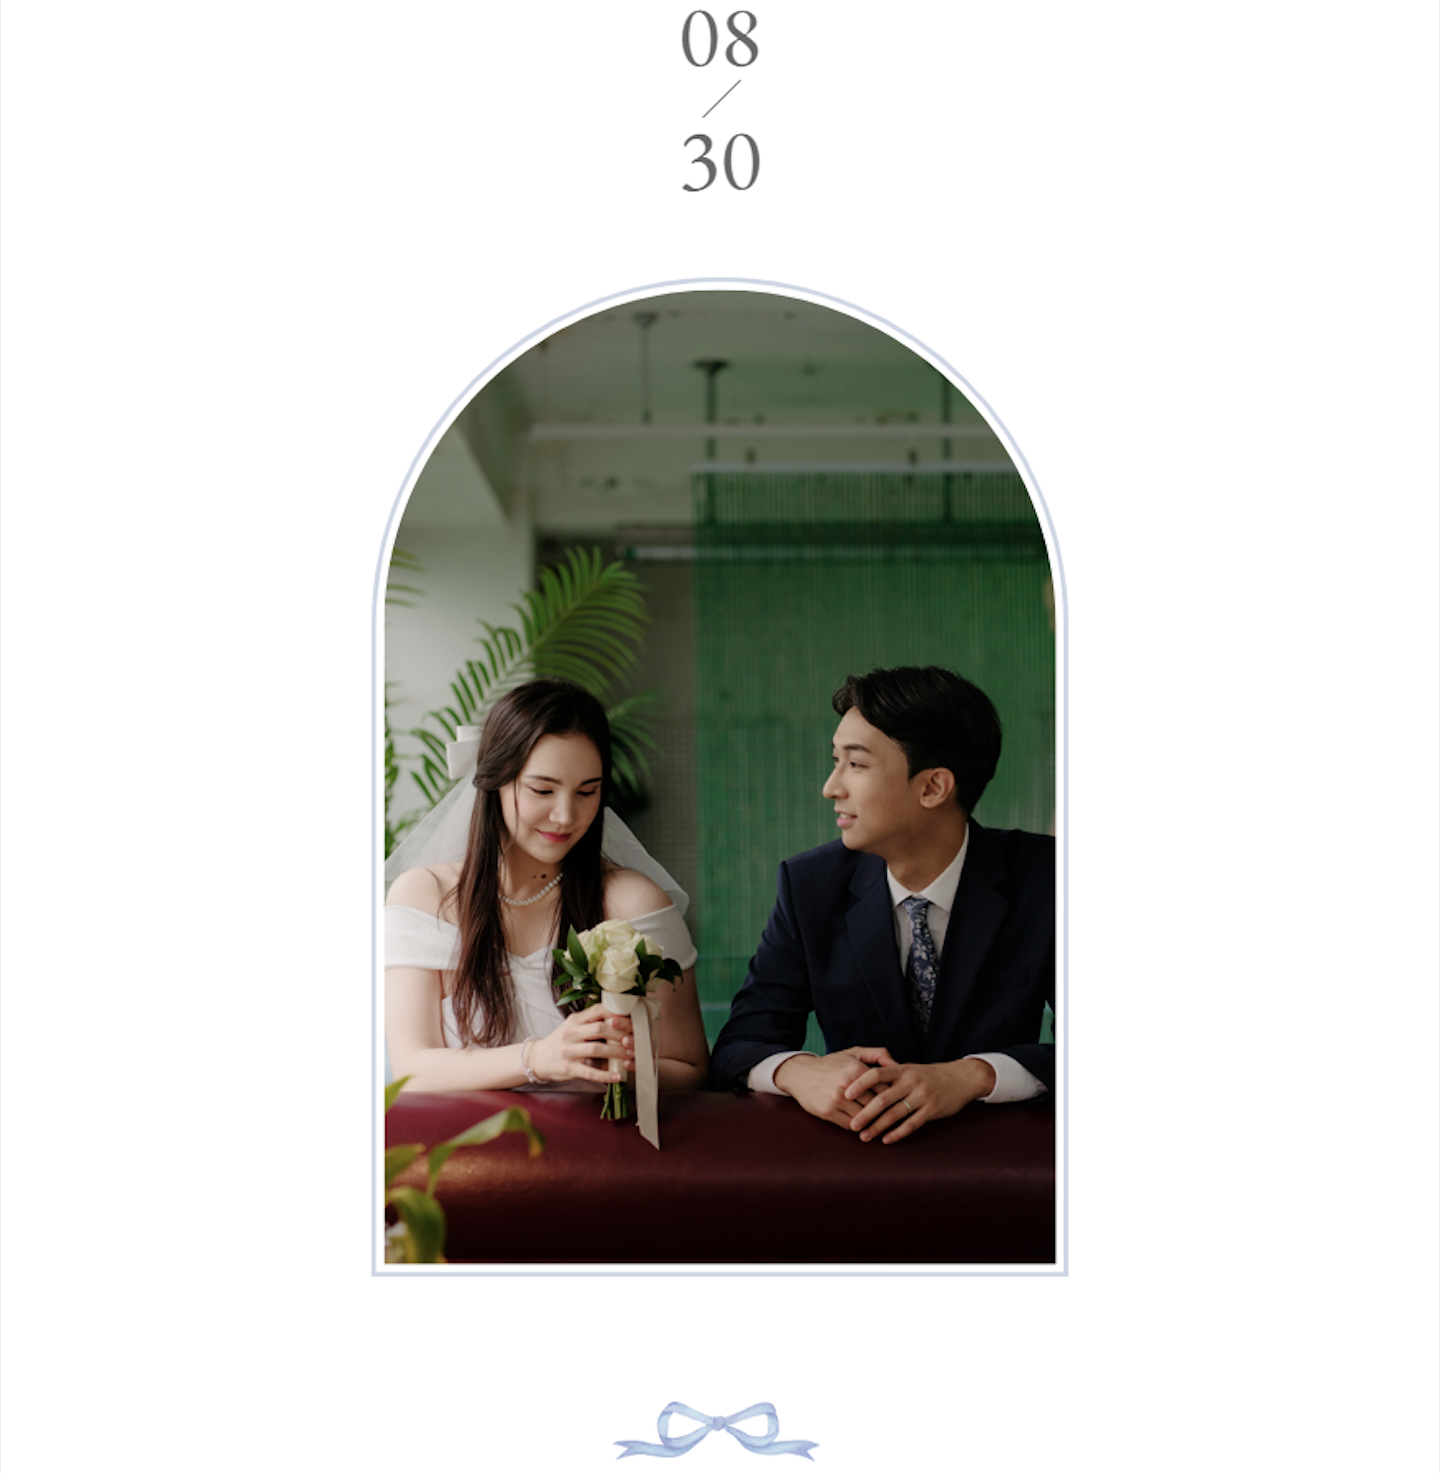
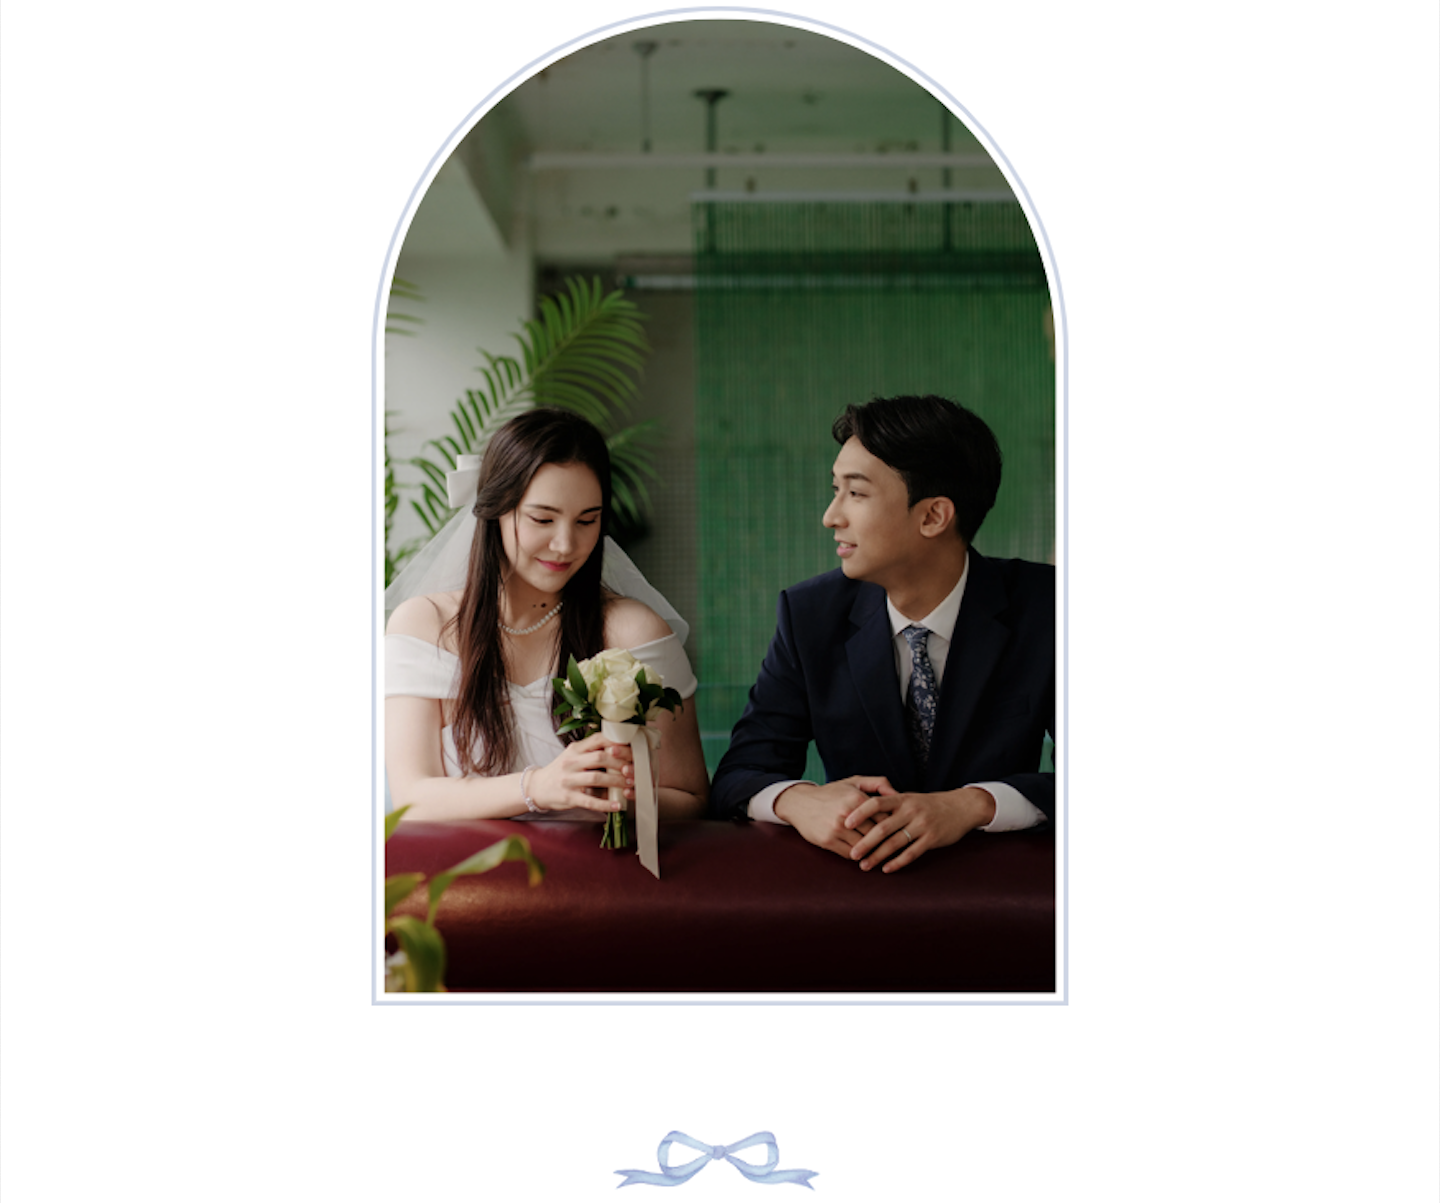
fix: 글자 및 사진 변경

Changed region(s): [[0.25, 0.0, 0.75, 0.8919], [0.4375, 0.9227, 0.5625, 1.0], [0.7188, 0.6151, 0.75, 0.6459]]

diff --git a/src/components/maps/MapsButton.tsx b/src/components/maps/MapsButton.tsx
@@ -23,6 +23,8 @@ export const MapsButton = () => {
 			<div className={s.map}>
 				<div className={s.mapName}>
 					<div className={s.mapNameWrap}>
+						<div className={s.date}>{lang[language].date}</div>
+
 						<span className={s.name}>
 							{lang[language].weddingHole}
 						</span>
@@ -80,8 +82,6 @@ export const MapsButton = () => {
 					<span>{lang[language].tMap}</span>
 				</LinkButton>
 			</div>
-
-			<div className={s.date}>{lang[language].date}</div>
 
 			<div className={s.br}>{lang[language].message}</div>
 		</div>

diff --git a/src/components/languageTranslate/lang.ts b/src/components/languageTranslate/lang.ts
@@ -8,7 +8,9 @@ export const lang = {
 		ment: `두 사람이 서로의 인연을
 		결혼이라는 이름으로 맺고자 합니다.
 		귀한 걸음으로 자리하시어
-		저희의 새로운 출발을 축하해 주시면 감사하겠습니다.
+		저희의 새로운 출발을
+		축하해 주시면 감사하겠습니다.
+		
 		`,
 		parentSy: "박순화 · 최미숙 의 아들 ",
 		parentSf: "Naumenko Boris · Naumenko Viktoriia 의 딸 ",
